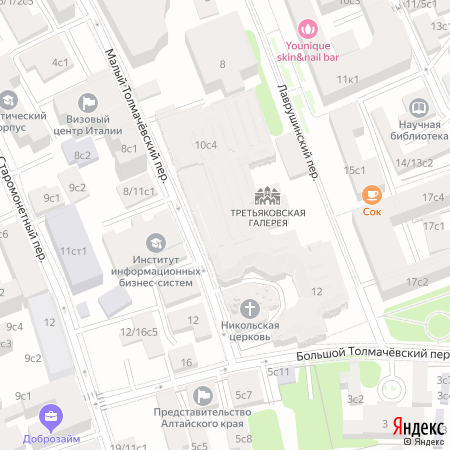
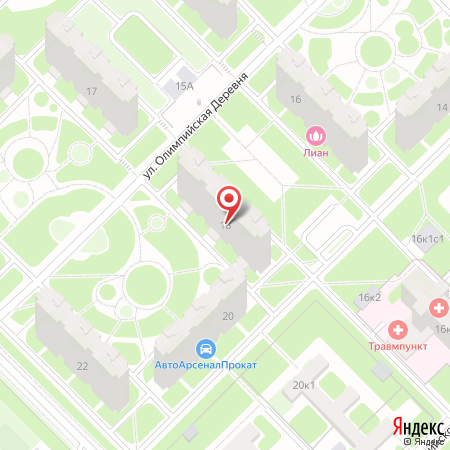
task-5 completed

diff --git a/main.py b/main.py
@@ -28,6 +28,7 @@ class MyWidget(QMainWindow):
         self.coords=[37.620070, 55.753630]
         self.types = ['map', 'sat', 'sat,skl']
         self.type = 0
+        self.pt = None
 
 
 
@@ -43,6 +44,8 @@ class MyWidget(QMainWindow):
 
         self.change_map_type.clicked.connect(lambda: self.change_type())
 
+        self.search_button.clicked.connect(lambda: self.search_obj())
+
 
     def change_img_view(self, **kwargs):
         self.make_map_img(**kwargs)
@@ -54,7 +57,6 @@ class MyWidget(QMainWindow):
 
         self.map_viewer.setScene(self.map)
 
-    
     def make_map_img(self, coords=[37.620070, 55.753630], type='map', size=[450, 450], zoom=10,  pt=None, pl=None, lang=None):
         coords = self.coords
         zoom = self.zoom
@@ -63,6 +65,8 @@ class MyWidget(QMainWindow):
             self.map_file = 'map.jpg'
         else:
             self.map_file = 'map.png'
+        if self.pt:
+            pt = self.pt
         kwargs = locals()
         kwargs.pop('self')
         # print(kwargs)
@@ -112,7 +116,7 @@ class MyWidget(QMainWindow):
            self.zoom -= 1
            # print(s1elf.zoom)
            self.change_img_view(zoom=self.zoom)
-    
+
     def move(self, orientation):
         change = 180 / (2 ** self.zoom)
         if orientation == 'up':
@@ -131,7 +135,7 @@ class MyWidget(QMainWindow):
         if new_y < 90 and new_y > -90 and new_x < 180 and new_x > -180:
             self.coords = [new_x, new_y]
             self.change_img_view()
-    
+
     def change_type(self):
         self.type += 1
         
@@ -142,7 +146,31 @@ class MyWidget(QMainWindow):
         finally:
             self.change_img_view()
 
+    def get_pos(self, text_zap):
+        url = f'https://geocode-maps.yandex.ru/1.x/?geocode={",+".join(text_zap.split(","))}&apikey=40d1649f-0493-4b70-98ba-98533de7710b&format=json'
+        print(url)
+        try:
+            zap = requests.get(url)
+            sp = zap.json()["response"]["GeoObjectCollection"]["featureMember"]
+            top = sp[0]["GeoObject"]
+            pos = top['Point']['pos'].split()
+            
+            pos = list(map(lambda x: float(x), pos))
+            print(pos)
+            return pos
+        except IndexError:
+            return None
 
+    def search_obj(self):
+        pos = self.get_pos(self.search_label.text())
+        if pos:
+            self.coords = pos
+            self.pt = f'{pos[0]},{pos[1]},pm2rdl'
+            self.change_img_view(pt=self.pt)
+        else:
+            print('No matches(')
+    
+    
 
 
 
